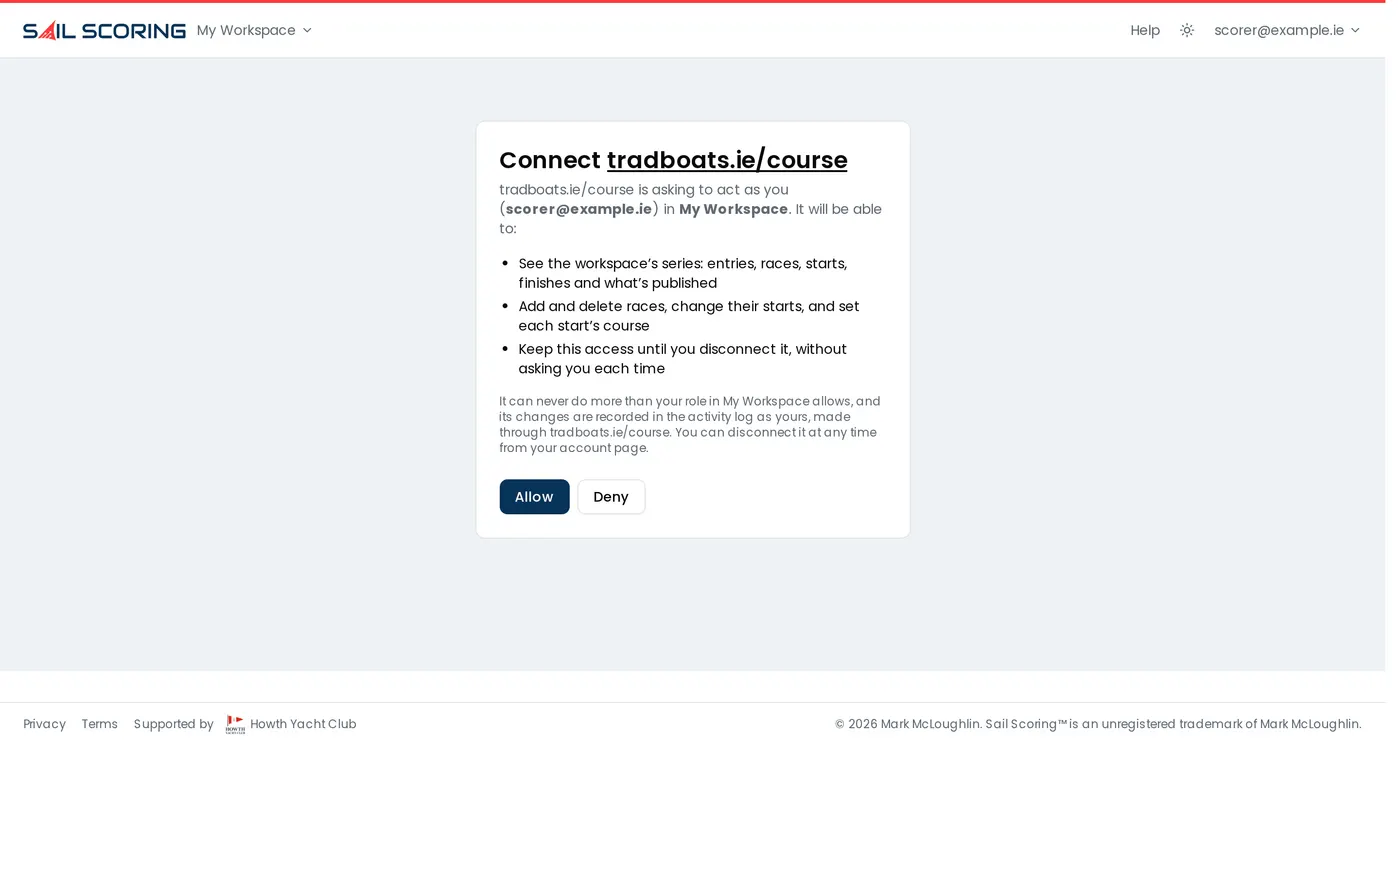
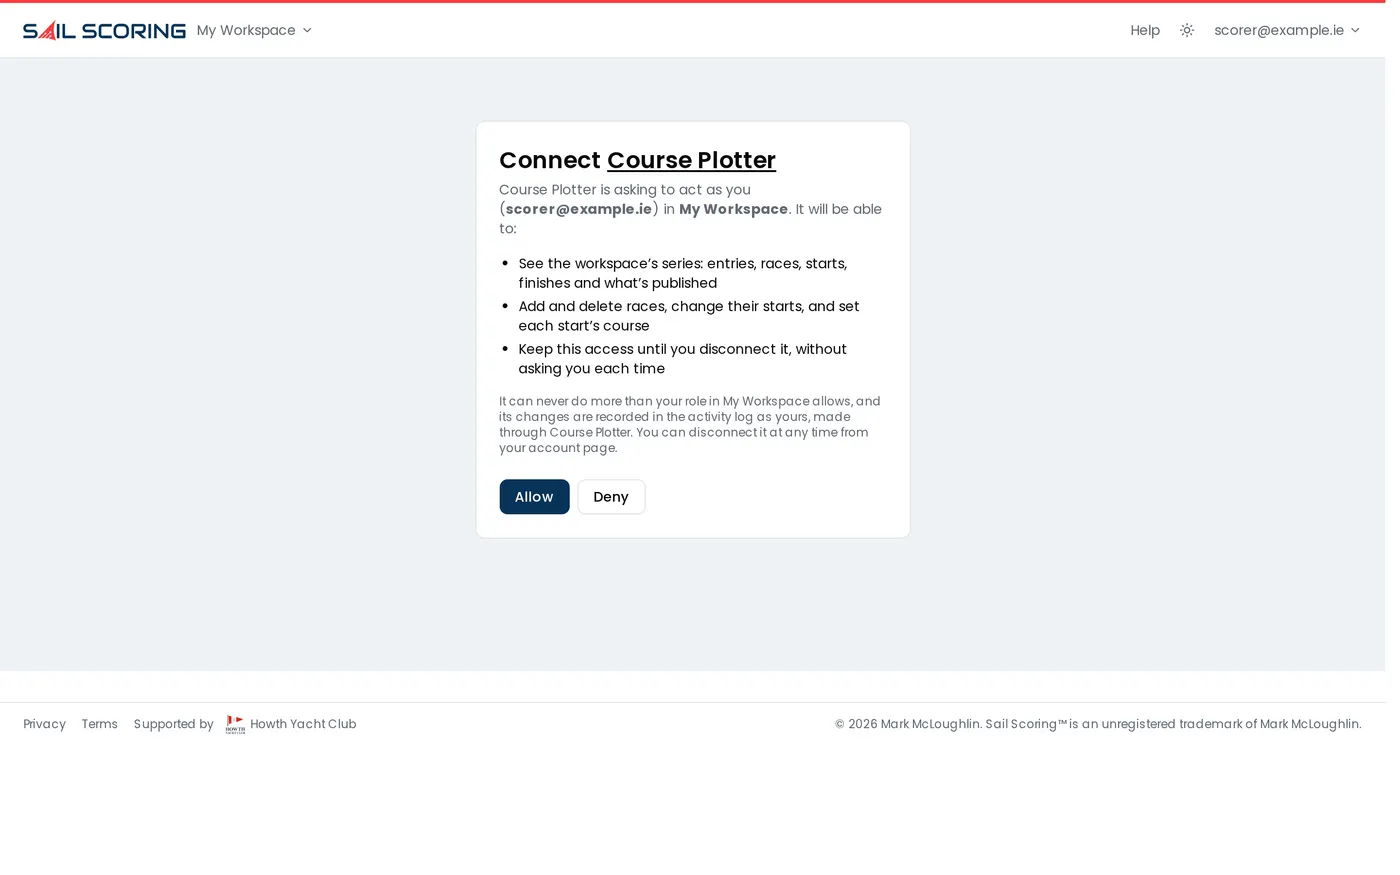
Name no particular outside app in the public docs and help
The public API guide, the connecting-an-app help, the provisioning doc
and the oauth-client usage named one specific course-plotting page as
the example app, and a help keyword named one race-day app. Readers of
those pages are prospective app authors and scorers; a generic ORC
course-plotting page serves the example as well without singling anyone
out. The connected-apps screenshot is recaptured with a generic app
name. The design docs keep their specific references.

Changed region(s): [[0.3686, 0.1543, 0.6143, 0.2469], [0.3686, 0.4937, 0.6143, 0.5246]]

diff --git a/app/help/content/collaboration.tsx b/app/help/content/collaboration.tsx
@@ -115,7 +115,7 @@ export default function Collaboration() {
         <Section id="connected-apps" title="Connecting an app">
           <HelpShot
             src="/help/shots/connected-apps.webp"
-            alt="Connecting an app: what tradboats.ie/course is asking to do in My Workspace, with Allow and Deny."
+            alt="Connecting an app: what Course Plotter is asking to do in My Workspace, with Allow and Deny."
             caption="Connecting an app: what it asks to do, in the workspace you chose, before you allow it."
           />
           <p>
@@ -129,8 +129,8 @@ export default function Collaboration() {
           <p>
             An app reaches only the workspace you chose, and can never do more than your own role
             there allows: if you can only read a workspace, so can the app. What it changes is
-            recorded in the activity log as yours, made through the app (“Pat Tanner via
-            tradboats.ie/course”). To use an app in two workspaces, connect it to each.
+            recorded in the activity log as yours, made through the app (“Aoife Ryan via
+            Course Plotter”). To use an app in two workspaces, connect it to each.
           </p>
           <p>
             Your <strong className="text-foreground">account page</strong> lists every app you’ve

diff --git a/app/help/sections.ts b/app/help/sections.ts
@@ -135,7 +135,7 @@ export const HELP_GROUPS: HelpGroupDef[] = [
       { id: 'sailwave-import', title: 'Importing from Sailwave', feature: 'sailwave-import', keywords: ['sailwave', 'blw', 'migrate', 'move from sailwave'] },
       { id: 'sailwave-export', title: 'Exporting to Sailwave', feature: 'sailwave-export', keywords: ['sailwave', 'blw', 'export'] },
       { id: 'json-export', title: 'Open in Sail Scoring, and the data behind published results', keywords: ['json', 'data', 'open in sail scoring', 'api', 'raw results', 'spectator', 'index.json', 'integration', 'developer'] },
-      { id: 'results-api', title: 'Results for apps', keywords: ['api', 'app', 'race day app', 'clubhouse screen', 'widget', 'integration', 'developer', 'raceops'] },
+      { id: 'results-api', title: 'Results for apps', keywords: ['api', 'app', 'race day app', 'clubhouse screen', 'widget', 'integration', 'developer'] },
     ],
   },
   {

diff --git a/scripts/oauth-client.ts b/scripts/oauth-client.ts
@@ -12,8 +12,8 @@
  * acts in every workspace its user belongs to.
  *
  * Usage (production: against the production DATABASE_URL):
- *   pnpm oauth-client create --owner mark@example.com --name "tradboats.ie/course" \
- *     --uri https://tradboats.ie/course --redirect-uris https://tradboats.ie/course/callback
+ *   pnpm oauth-client create --owner mark@example.com --name "Course Plotter" \
+ *     --uri https://courseplotter.example.com --redirect-uris https://courseplotter.example.com/callback
  *   pnpm oauth-client create-cli --owner mark@example.com
  *   pnpm oauth-client list
  *   pnpm oauth-client disable <client-id>

diff --git a/scripts/feature-shots.ts b/scripts/feature-shots.ts
@@ -2130,7 +2130,7 @@ const SHOTS: Shot[] = [
     group: 'Collaboration and accounts',
     async capture({ page, shot }) {
       await dbEnableOperatorFeature('connected-apps');
-      const clientId = await dbRegisterOAuthApp('tradboats.ie/course', 'https://tradboats.ie/course');
+      const clientId = await dbRegisterOAuthApp('Course Plotter', 'https://courseplotter.example.com');
       const query = new URLSearchParams({
         response_type: 'code',
         client_id: clientId,

diff --git a/docs/workspace-provisioning.md b/docs/workspace-provisioning.md
@@ -243,7 +243,7 @@ The current gated keys are:
 | `race-scoring-options` | off | the per-race **scoring options** dialog (#342) — reached from a race's header chip or its row in the **Races** tab — plus the badges the races list shows and the marks and legend the standings carry. Sets how much a particular race counts, as a NoR or SI may specify it: **must count** (never discarded, the centrepiece race), **discard first** (taken before any other when discards are selected — a practice race, dropped once real racing starts), and a **weighting** (×2 for a trophy race, ×0.5 for a lesser one; non-integer values allowed). Weighting a race up does not protect it from discard — an SI that wants both says both — and the weighted score is what discard selection and the RRS A8.1 tie-break compare. Only the *authoring* UI is gated: a series that already carries options scores, displays and publishes them regardless, so switching the feature off never silently changes anyone's standings. Off by default while the options prove out against a real NoR. |
 | `race-management-metadata` | off | the **race record** (#338/#339): a per-race dialog — reached from the record line in a race's header, **Race record…** on its row in the **Races** tab, or `r` — holding the **conditions** the race was sailed in (wind as a min/max range in knots plus a 16-point direction, and a free-text course/tide note) and the **race management team** that ran it; plus a **Race management team** card on series **Settings** holding the event's *standing* team. The two levels are deliberately independent — no inheritance, no override — so a regatta uses the standing team, a club series with a rotating duty uses the per-race one, and a series that fills in both shows both. Roles are World Sailing's Race Management Manual vocabulary, fixed in code and race-management only (no jury titles): a club's "OOD" is a **Race Officer** and the person recording finishes is a **Recorder**, so two names for one job can't both appear. **Officials are published opt-in per series** — the **Publish the race management team** switch on that card is off by default, and while it is off no team reaches a published page *or* the JSON export embedded in it. Conditions publish regardless (they describe the racing, not a person). Only the authoring surfaces and the published display are gated; a series that already carries a record keeps it in its file and export. Off by default. **Revisit when ORC work starts:** wind is a *scoring* input for ORC performance-curve scoring, not just a display field, so a gate hiding the wind inputs would then be hiding a required input — at that point either split the gate or default it on. |
 | `proportional-discards` | off | a second **kind** of discard rule (#341) on the **Scoring** card of a series' **Settings** tab: an allowance stated as a proportion — "one discard for every three races sailed", "one third of the results are discarded" — instead of a threshold per step-up. Set as two numbers (the race count at which the first discard applies, and how many further races earn each one after that); the card reads back where the steps land so the setup can be checked against the sailing instruction it came from. Counted against races **sailed**, rounded down, and capped at the number of races sailed. It **replaces** the threshold list for scoring while set; the thresholds are kept so switching back loses nothing. Only the *authoring* UI is gated — a series that already carries a rule scores and publishes with it regardless, so turning the feature off never silently changes anyone's standings. Off by default while the wording proves out against real sailing instructions. |
-| `connected-apps` | off | **outside apps acting for the workspace's members** (ADR-016): with it on, a member can connect an app such as tradboats.ie/course to this workspace through the OAuth consent flow, and the app can then use the authenticated public API (`/api/public/v1`) as that member, never beyond their role and only within the scopes they approved. Without it the workspace isn't offered at consent, and turning it off cuts every connected app off from the workspace at once (their grants come back into force if it's turned on again). The CLI's device sign-in is not affected: it isn't an outside app. Operator-managed while the authenticated part of the public API is a preview. Apps themselves are registered with `pnpm oauth-client`. |
+| `connected-apps` | off | **outside apps acting for the workspace's members** (ADR-016): with it on, a member can connect an app such as an ORC course-plotting page to this workspace through the OAuth consent flow, and the app can then use the authenticated public API (`/api/public/v1`) as that member, never beyond their role and only within the scopes they approved. Without it the workspace isn't offered at consent, and turning it off cuts every connected app off from the workspace at once (their grants come back into force if it's turned on again). The CLI's device sign-in is not affected: it isn't an outside app. Operator-managed while the authenticated part of the public API is a preview. Apps themselves are registered with `pnpm oauth-client`. |
 
 **Archivist credentials (ADR-010).** A class archive repo's CI pushes
 as-published series through `/api/v1/archive` with an API key whose user

diff --git a/docs/public-api.md b/docs/public-api.md
@@ -181,7 +181,7 @@ requests go from the browser straight to the API, which allows any origin.
 
 # Acting in a workspace (preview)
 
-An app acting for the people who use it: Pat Tanner's course-plotting page
+An app acting for the people who use it: an ORC course-plotting page
 setting up a day's races and a course for each start, or a race-day app
 publishing results after the last race. The calls act as the signed-in user,
 in one workspace they chose, and never beyond what their role there allows.
